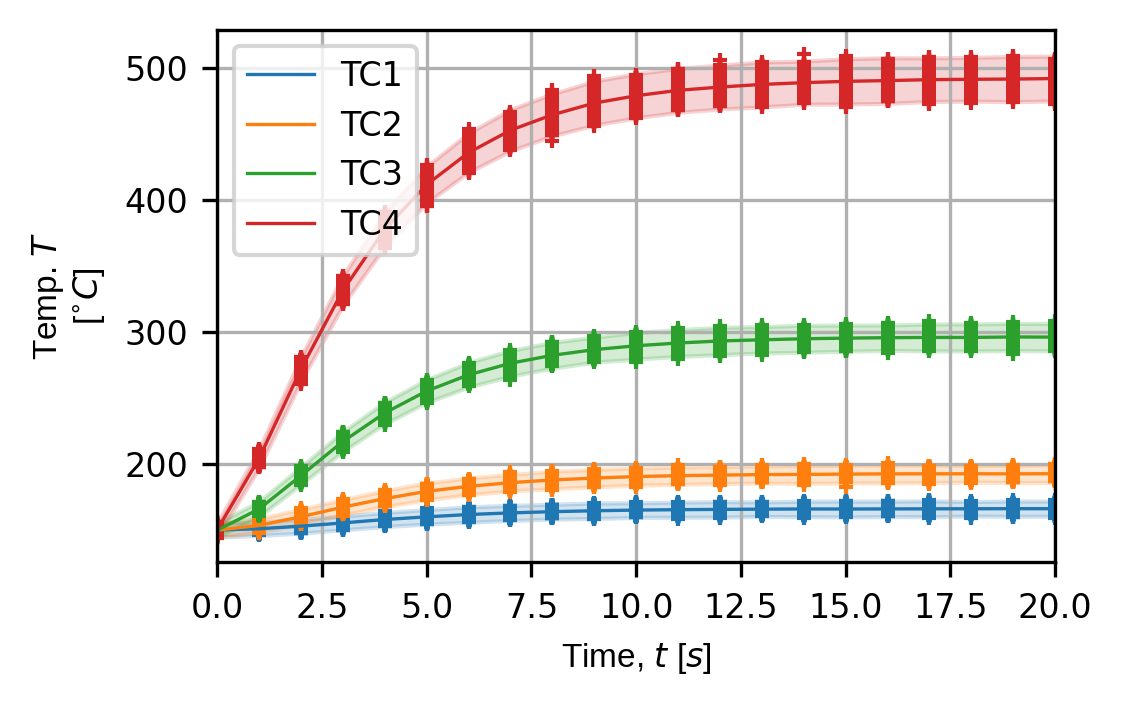
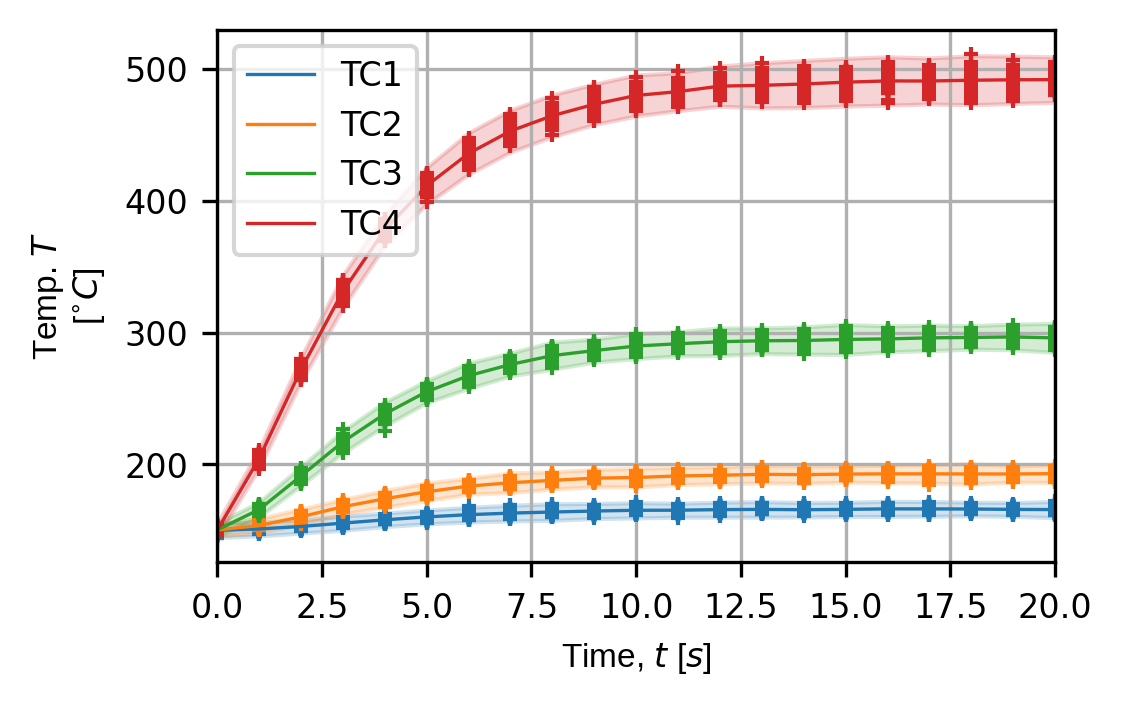
Final commit before deployment, tested in blank venv

diff --git a/src/pyvale/examples/ex6_2_multiphysics3d_expsim.py b/src/pyvale/examples/ex6_2_multiphysics3d_expsim.py
@@ -14,9 +14,8 @@ import mooseherder as mh
 import pyvale as pyv
 
 def main() -> None:
-    """pyvale example: TODO
+    """pyvale example: 3D thermo-mechanical with thermocouples & strain gauges
     ----------------------------------------------------------------------------
-    - TODO
     """
     # Load Simulations as mooseherder.SimData objects
     sim_path = pyv.DataSet.thermomechanical_3d_path()
@@ -100,7 +99,7 @@ def main() -> None:
 
     exp_sim = pyv.ExperimentSimulator(sim_list,
                                       sensor_arrays,
-                                      num_exp_per_sim=1000)
+                                      num_exp_per_sim=100)
 
     exp_data = exp_sim.run_experiments()
     exp_stats = exp_sim.calc_stats()
